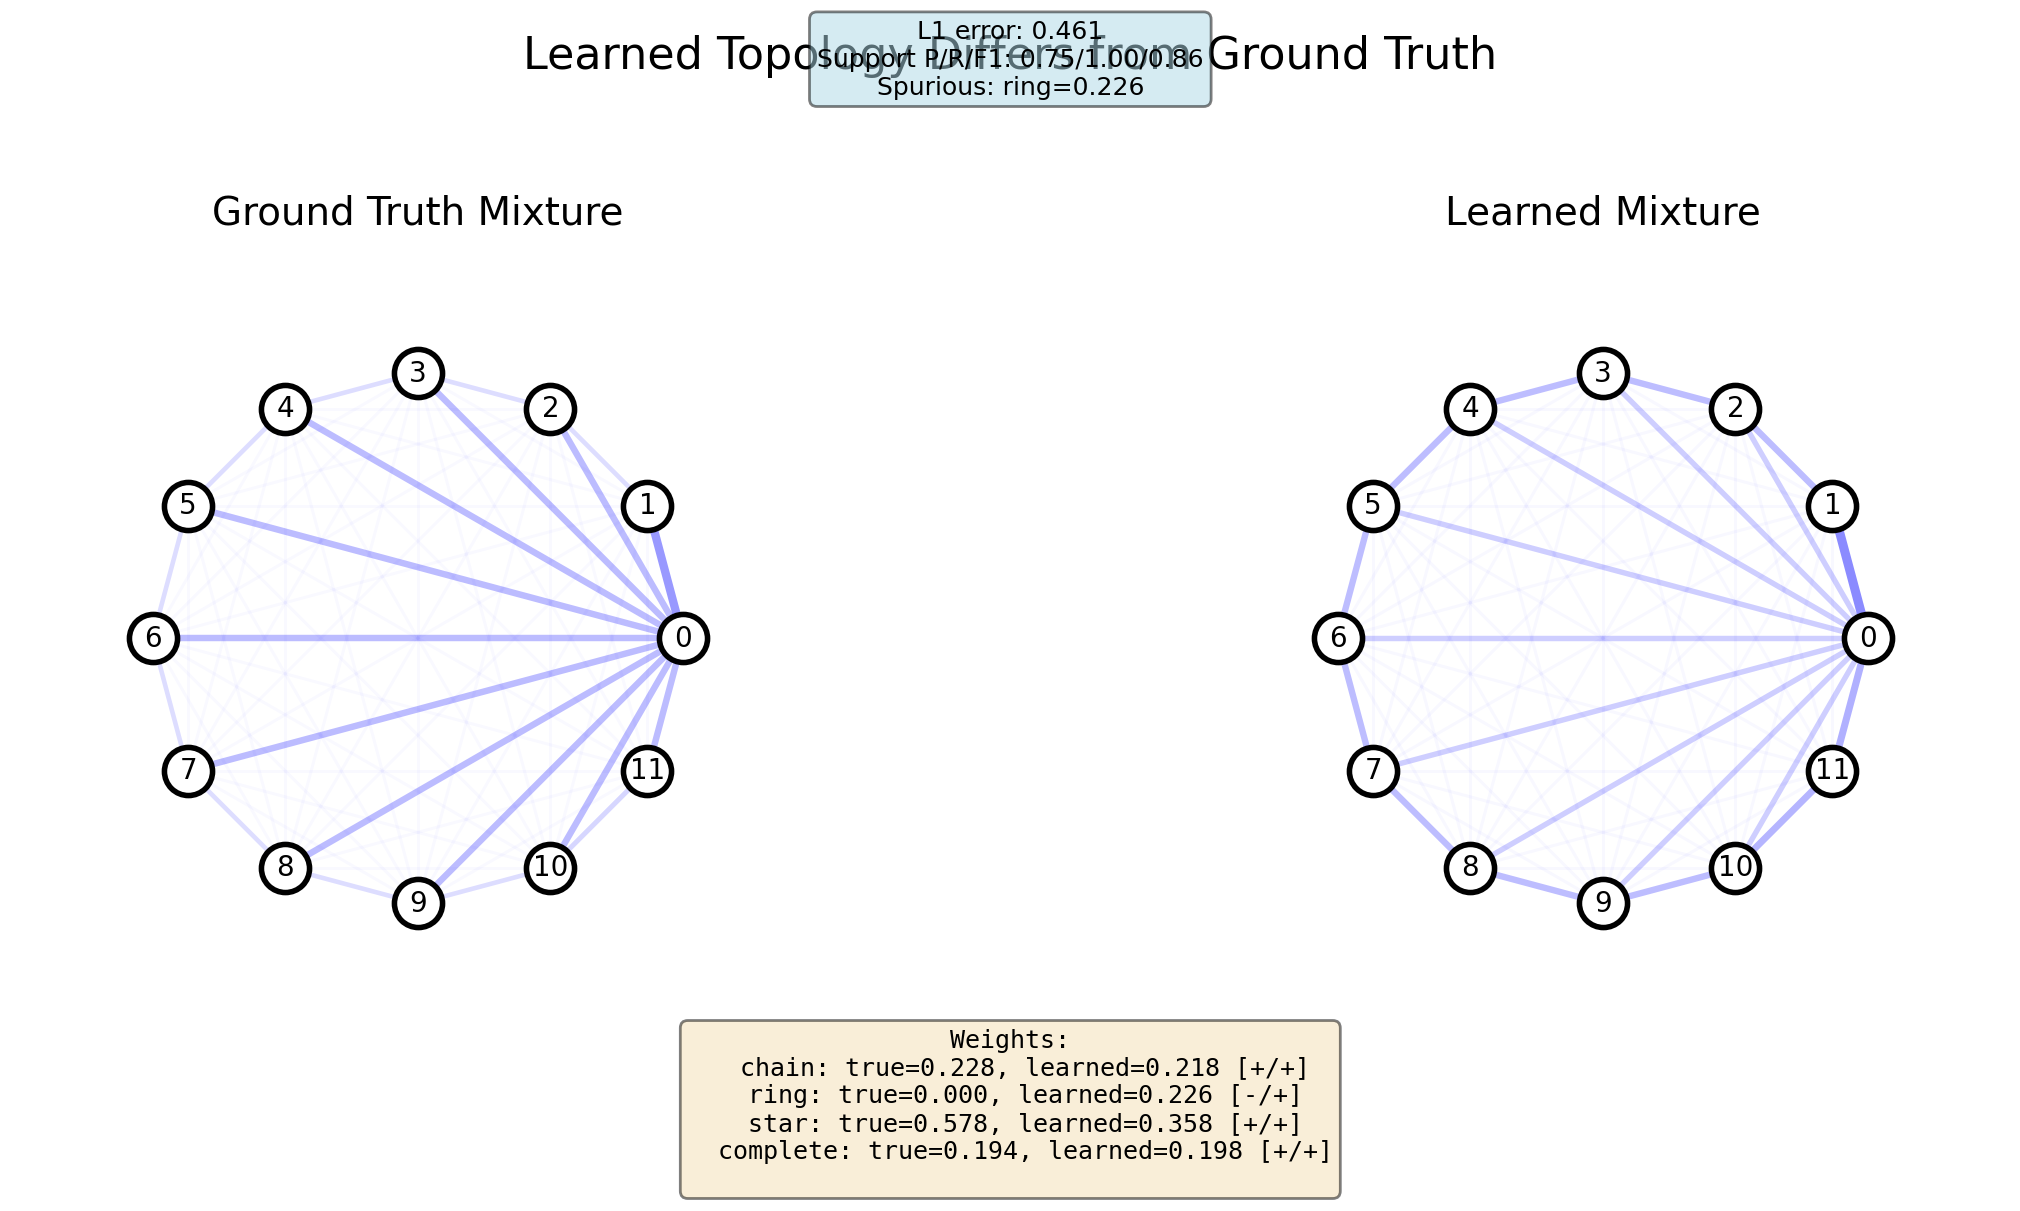
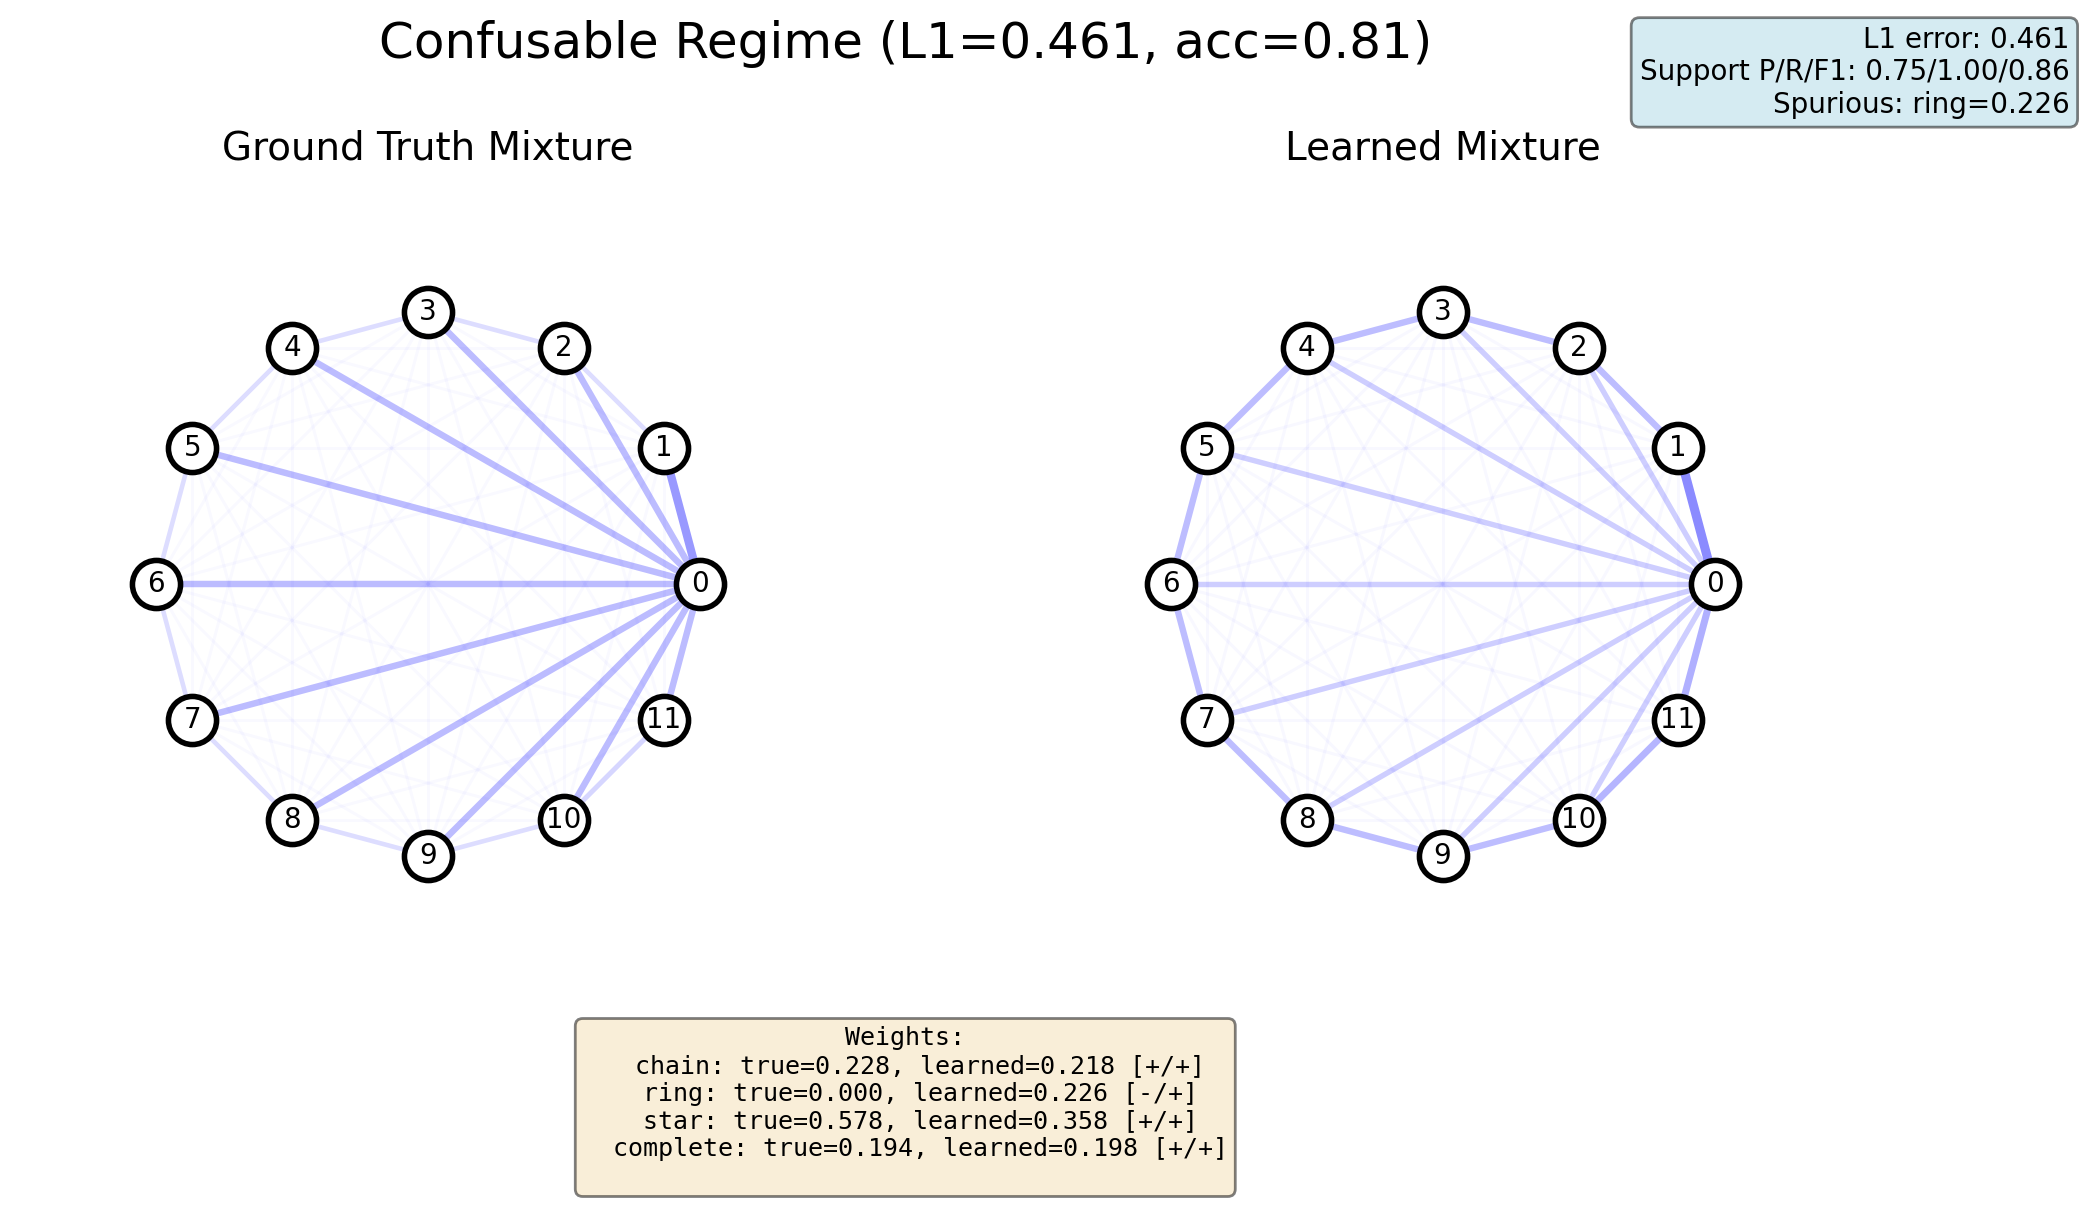
Update Figure 4: move metrics box to avoid title overlap

diff --git a/scripts/make_figures_recovery.py b/scripts/make_figures_recovery.py
@@ -312,21 +312,37 @@ def make_learned_graph_figure():
     fig.text(0.5, 0.02, weight_text, ha='center', fontsize=9,
              family='monospace', bbox=dict(boxstyle='round', facecolor='wheat', alpha=0.5))
 
-    # Determine honest title based on recovery quality
+    # Compute final accuracy for title
+    final_acc = history['acc'][-1]
+
+    # Determine honest title based on recovery quality (L1 error)
     if l1_error < 0.1:
-        main_title = 'fig.suptitle(f"Mixture Identifiability Diagnostic (L1={l1_error:.3f}, acc={acc:.3f})")'
+        regime = "Identifiable Regime"
     elif l1_error < 0.3:
-        main_title = 'fig.suptitle(f"Mixture Identifiability Diagnostic (L1={l1_error:.3f}, acc={acc:.3f})")'
+        regime = "Partial Identifiability"
     else:
-        main_title = 'Learned Topology Differs from Ground Truth'
+        regime = "Confusable Regime"
 
-    fig.suptitle(main_title, fontsize=16, y=0.98)
+    main_title = f"{regime} (L1={l1_error:.3f}, acc={final_acc:.2f})"
 
-    # Add smaller subtitle with metrics
-    fig.text(0.5, 0.93, metrics_box, ha='center', fontsize=9,
-             bbox=dict(boxstyle='round', facecolor='lightblue', alpha=0.5))
+    # Layout: reserve space for title at top
+    fig.subplots_adjust(top=0.86)
 
-    fig.tight_layout(rect=[0, 0.12, 1, 0.90])
+    # Place suptitle centered at top
+    fig.suptitle(main_title, fontsize=18, y=0.99)
+
+    # Place metrics box in top-right corner (no overlap with centered title)
+    fig.text(
+        0.985, 0.985,
+        metrics_box,
+        ha='right',
+        va='top',
+        fontsize=10,
+        bbox=dict(boxstyle='round', facecolor='lightblue', alpha=0.5)
+    )
+
+    # Adjust bottom for weight text
+    fig.subplots_adjust(bottom=0.18)
     out_path = FIGURES_DIR / "sqnt_learned_graph_overlay.png"
     fig.savefig(out_path, dpi=200, bbox_inches='tight')
     plt.close(fig)

diff --git a/README.md b/README.md
@@ -99,11 +99,16 @@ All gradients are computed analytically in NumPy—no autograd required.
 
 **Right**: Recovery error (L1 distance and KL divergence) decreases over training epochs. Support metrics (precision, recall, F1) quantify whether the correct topologies are identified.
 
-### Figure 2: Recovery Phase Diagram
+### Figure 2: Identifiability Regime Map
 
 ![Recovery Phase Diagram](figures/sqnt_recovery_phase_diagram.png)
 
-Phase diagram showing recovery success as a function of **label noise** (y-axis) and **dataset size** (x-axis). The white contour marks the boundary between recoverable and non-recoverable regimes. Key insight: larger datasets and lower noise enable better topology recovery.
+This figure maps identifiability regimes across data conditions:
+
+- **Left panel (Recovery Error)**: L1 distance between learned and true mixture weights. Lower values (green) indicate better identifiability; higher values (red) indicate topology confusability.
+- **Right panel (Training Accuracy)**: Classification performance. High accuracy is achievable across most conditions.
+
+**Key insight**: High accuracy can coexist with high L1 error due to topology confusability—the model learns *some* effective topology but not necessarily the *true* one. Low L1 combined with high accuracy indicates empirical identifiability under the current observable.
 
 ### Figure 3: Learned Graph Structure
 
